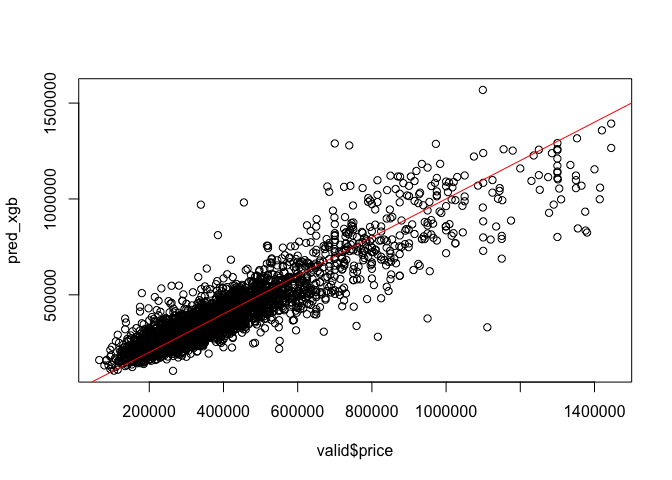
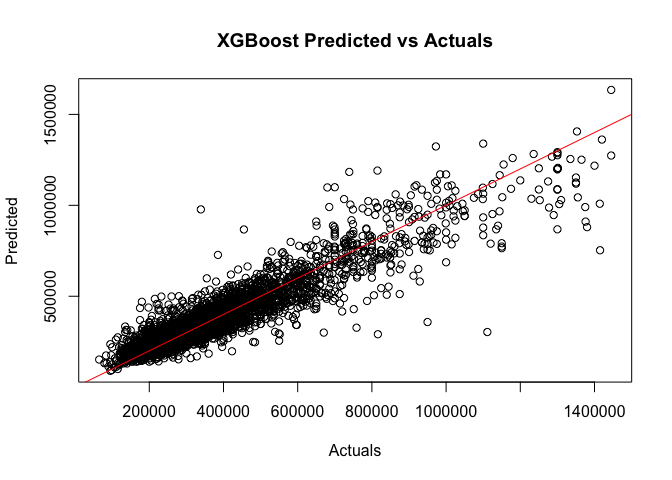
Updated transformations

diff --git a/modeling/modeling.md b/modeling/modeling.md
@@ -26,7 +26,7 @@ df$townhouse <- ifelse(df$home_type == 'TOWNHOUSE', 1, 0)
 # default neighborhood 1 (Green Hills / Forest Hills / Belle Meade)
 neighborhoods <- unique(df$neighborhood)
 num_hoods <- length(neighborhoods) # 24
-# loop enconding
+# loop encoding
 for(i in 2:num_hoods) {
   new <- ifelse(df$neighborhood == neighborhoods[i], 1, 0)
   df[ , ncol(df) + 1] <- new
@@ -41,9 +41,9 @@ df <- subset(df,select = -c(zpid
                    ,home_type
                    ,date_sold
                    ,date_listed
-                   ,days_on_market
+                   #,days_on_market
                    ,date_sold_previous
-                   ,age
+                   #,age
                    ,year_built
                    ,description
                    ,photo_count
@@ -97,18 +97,25 @@ polygon(d, col='gray')
 
 ``` r
 d_log = density(log(df$price))
-plot(d_log, main = 'price')
+plot(d_log, main = 'Log Price')
 polygon(d_log, col='gray')
 ```
 
 ![](modeling_files/figure-gfm/unnamed-chunk-7-2.png)<!-- -->
 
 ``` r
-# feature log transformations
+# feature transformations and imputations
+
+# log transformations
 df$bedrooms <- log(df$bedrooms)
 df$bathrooms <- log(df$bathrooms)
 df$living_area <- log(df$living_area)
 df$lot_size <- log(df$lot_size)
+
+# sqrt transformation
+df$days_on_market[is.na(df$days_on_market)] <- mean(df$days_on_market, na.rm = TRUE)
+df$days_on_market <- sqrt(df$days_on_market)
+df$age <- sqrt(df$age)
 ```
 
 We split our data in train/validate/test sets. The train dataset is used
@@ -149,49 +156,51 @@ summary(model_lm)
     ## 
     ## Residuals:
     ##      Min       1Q   Median       3Q      Max 
-    ## -1.18276 -0.12323  0.00418  0.13476  1.20313 
+    ## -1.13348 -0.11776  0.00243  0.12927  1.22531 
     ## 
     ## Coefficients:
-    ##                  Estimate Std. Error t value Pr(>|t|)    
-    ## (Intercept)     97.745581   6.060261  16.129  < 2e-16 ***
-    ## bedrooms        -0.009329   0.008538  -1.093  0.27457    
-    ## bathrooms        0.185869   0.006113  30.407  < 2e-16 ***
-    ## living_area      0.577855   0.007429  77.787  < 2e-16 ***
-    ## lot_size         0.031893   0.002515  12.683  < 2e-16 ***
-    ## downtown_dist   -0.044007   0.001137 -38.710  < 2e-16 ***
-    ## longitude        0.414216   0.062850   6.591 4.48e-11 ***
-    ## latitude        -1.472723   0.079236 -18.587  < 2e-16 ***
-    ## condo           -0.062745   0.006419  -9.775  < 2e-16 ***
-    ## townhouse       -0.107654   0.007321 -14.705  < 2e-16 ***
-    ## neighborhood_2  -0.407485   0.011756 -34.661  < 2e-16 ***
-    ## neighborhood_3  -0.239006   0.013121 -18.215  < 2e-16 ***
-    ## neighborhood_4   0.019676   0.015845   1.242  0.21434    
-    ## neighborhood_5  -0.088929   0.010707  -8.306  < 2e-16 ***
-    ## neighborhood_6  -0.316788   0.018726 -16.917  < 2e-16 ***
-    ## neighborhood_7  -0.289468   0.014258 -20.302  < 2e-16 ***
-    ## neighborhood_8  -0.298727   0.013871 -21.536  < 2e-16 ***
-    ## neighborhood_9  -0.347913   0.015205 -22.881  < 2e-16 ***
-    ## neighborhood_10 -0.527059   0.015296 -34.458  < 2e-16 ***
-    ## neighborhood_11 -0.141440   0.016654  -8.493  < 2e-16 ***
-    ## neighborhood_12 -0.288369   0.019056 -15.133  < 2e-16 ***
-    ## neighborhood_13 -0.461339   0.016595 -27.800  < 2e-16 ***
-    ## neighborhood_14 -0.177319   0.021053  -8.423  < 2e-16 ***
-    ## neighborhood_15 -0.576850   0.016024 -36.000  < 2e-16 ***
-    ## neighborhood_16 -0.098605   0.014782  -6.670 2.61e-11 ***
-    ## neighborhood_17  0.023912   0.012047   1.985  0.04717 *  
-    ## neighborhood_18 -0.104295   0.013082  -7.972 1.63e-15 ***
-    ## neighborhood_19  0.054666   0.013228   4.132 3.60e-05 ***
-    ## neighborhood_20 -0.393750   0.015539 -25.340  < 2e-16 ***
-    ## neighborhood_21  0.077522   0.014253   5.439 5.41e-08 ***
-    ## neighborhood_22 -0.162077   0.040318  -4.020 5.84e-05 ***
-    ## neighborhood_23 -0.156763   0.017796  -8.809  < 2e-16 ***
-    ## neighborhood_24  0.122519   0.040936   2.993  0.00277 ** 
+    ##                   Estimate Std. Error t value Pr(>|t|)    
+    ## (Intercept)      1.014e+02  5.905e+00  17.167  < 2e-16 ***
+    ## bedrooms        -4.285e-03  8.316e-03  -0.515  0.60635    
+    ## bathrooms        1.414e-01  6.255e-03  22.612  < 2e-16 ***
+    ## living_area      5.735e-01  7.292e-03  78.641  < 2e-16 ***
+    ## days_on_market  -2.039e-02  7.456e-04 -27.350  < 2e-16 ***
+    ## age             -1.583e-02  6.956e-04 -22.758  < 2e-16 ***
+    ## lot_size         5.315e-02  2.643e-03  20.108  < 2e-16 ***
+    ## downtown_dist   -4.880e-02  1.122e-03 -43.481  < 2e-16 ***
+    ## longitude        4.510e-01  6.122e-02   7.368 1.80e-13 ***
+    ## latitude        -1.480e+00  7.719e-02 -19.177  < 2e-16 ***
+    ## condo           -6.396e-02  6.252e-03 -10.230  < 2e-16 ***
+    ## townhouse       -8.728e-02  7.194e-03 -12.132  < 2e-16 ***
+    ## neighborhood_2  -4.186e-01  1.146e-02 -36.525  < 2e-16 ***
+    ## neighborhood_3  -2.705e-01  1.290e-02 -20.974  < 2e-16 ***
+    ## neighborhood_4  -1.672e-02  1.552e-02  -1.077  0.28134    
+    ## neighborhood_5  -1.141e-01  1.049e-02 -10.871  < 2e-16 ***
+    ## neighborhood_6  -3.360e-01  1.825e-02 -18.412  < 2e-16 ***
+    ## neighborhood_7  -3.006e-01  1.389e-02 -21.637  < 2e-16 ***
+    ## neighborhood_8  -3.307e-01  1.358e-02 -24.356  < 2e-16 ***
+    ## neighborhood_9  -3.750e-01  1.486e-02 -25.228  < 2e-16 ***
+    ## neighborhood_10 -5.415e-01  1.492e-02 -36.292  < 2e-16 ***
+    ## neighborhood_11 -1.271e-01  1.623e-02  -7.834 4.93e-15 ***
+    ## neighborhood_12 -2.969e-01  1.856e-02 -16.001  < 2e-16 ***
+    ## neighborhood_13 -4.908e-01  1.622e-02 -30.258  < 2e-16 ***
+    ## neighborhood_14 -1.745e-01  2.050e-02  -8.510  < 2e-16 ***
+    ## neighborhood_15 -5.811e-01  1.560e-02 -37.240  < 2e-16 ***
+    ## neighborhood_16 -1.198e-01  1.441e-02  -8.311  < 2e-16 ***
+    ## neighborhood_17  3.866e-02  1.175e-02   3.291  0.00100 ***
+    ## neighborhood_18 -1.260e-01  1.276e-02  -9.871  < 2e-16 ***
+    ## neighborhood_19  4.192e-02  1.290e-02   3.250  0.00116 ** 
+    ## neighborhood_20 -4.091e-01  1.514e-02 -27.015  < 2e-16 ***
+    ## neighborhood_21  8.198e-02  1.388e-02   5.906 3.55e-09 ***
+    ## neighborhood_22 -1.639e-01  3.926e-02  -4.174 3.00e-05 ***
+    ## neighborhood_23 -1.685e-01  1.733e-02  -9.720  < 2e-16 ***
+    ## neighborhood_24  1.091e-01  3.987e-02   2.736  0.00622 ** 
     ## ---
     ## Signif. codes:  0 '***' 0.001 '**' 0.01 '*' 0.05 '.' 0.1 ' ' 1
     ## 
-    ## Residual standard error: 0.2152 on 21729 degrees of freedom
-    ## Multiple R-squared:  0.7781, Adjusted R-squared:  0.7778 
-    ## F-statistic:  2382 on 32 and 21729 DF,  p-value: < 2.2e-16
+    ## Residual standard error: 0.2095 on 21727 degrees of freedom
+    ## Multiple R-squared:  0.7897, Adjusted R-squared:  0.7893 
+    ## F-statistic:  2399 on 34 and 21727 DF,  p-value: < 2.2e-16
 
 It is good practice to check for multicollinearity in the predictors for
 a linear model, as the presence of relationships between the predictors
@@ -216,34 +225,27 @@ vif[vif > 5] # severe
 ```
 
     ##   downtown_dist       longitude        latitude  neighborhood_2  neighborhood_6 
-    ##        7.907548       18.444286       15.022280        5.865642       11.544099 
+    ##        8.129839       18.456485       15.037132        5.878043       11.565420 
     ##  neighborhood_8 neighborhood_10 neighborhood_11 neighborhood_12 neighborhood_14 
-    ##        5.032633       12.242618        8.444304        7.040319        6.906078 
+    ##        5.086193       12.284257        8.453308        7.042106        6.906328 
     ## neighborhood_20 
-    ##        5.708727
+    ##        5.718117
 
 In our diagnostic plots, we’re assessing the assumptions we’ve made in a
 linear model. - In the Residuals vs Fitted plot, we’re seeing a stable
 goodness of fit for most of the fitted value range, with some issues at
-the tails. In particular, the spread of residuals noticeably shifts at
-the upper end. There are also clear outliers. - In our Normal QQ-plot,
-we’re seeing a deviation that indicates non-normality in our response
-variable. We addressed this problem with a log transformation of price,
-but the tails are still fat. - The Scale-Location plot mainly serves to
-confirm the concerns about heteroskedasticity at higher prices. - The
-Residuals vs Leverage plot reveals a relationship between our errors and
-the leverage, or degree of influence of our points. Interestingly there
-are clusters of leverage with decreasing spread of residuals. Here it
-appears that our higher-leverage observations are not causing problems
-with our fit.
+the tails. Also, the spread of residuals shifts at the upper end,
+representing some homoskedasticity. - In the Normal QQ-plot, we’re
+seeing decent normality in the residuals but evidence of some non-linear
+characteristics not captured by our model. - The Cook’s distance plot
+checks for observations that have high influence on the model fit. Here
+there are three observations worthy of investigation.
 
 ``` r
 # linear regression diagnostic plots
-par(mfrow=c(2,2))
-plot(model_lm)
+dev.new(width=100, height=50, unit="px")
+plot(model_lm, which = c(1,2,4))
 ```
-
-![](modeling_files/figure-gfm/unnamed-chunk-12-1.png)<!-- -->
 
 ``` r
 # linear regression prediction and root mean squared error
@@ -252,7 +254,7 @@ rmse_lm <- sqrt(sum((exp(pred_lm) - valid$price)^2)/length(valid$price))
 rmse_lm
 ```
 
-    ## [1] 96678.3
+    ## [1] 95309.27
 
 In this plot of actual vs predicted, the model performs better for lower
 cost housing.
@@ -320,16 +322,16 @@ rmse_xgb <- sqrt(sum((pred_xgb - valid$price)^2)/length(valid$price))
 rmse_xgb
 ```
 
-    ## [1] 85450.26
+    ## [1] 80350.32
 
-XGBoost results in a 12% reduction in RMSE.
+XGBoost results in a 16% reduction in RMSE.
 
-Although not as severe, it is still underestimating more expensive
-homes.
+Although not as pronounced as the linear fit, the XGBoost model is still
+underestimating more expensive homes.
 
 ``` r
 # plot
-plot(valid$price, pred_xgb)
+plot(valid$price, pred_xgb, main = 'XGBoost Predicted vs Actuals', xlab = 'Actuals', ylab = 'Predicted')
 abline(coef = c(0, 1), c = 'red')
 ```
 
@@ -339,7 +341,31 @@ abline(coef = c(0, 1), c = 'red')
 1 - rmse_xgb/rmse_lm # performance comparison
 ```
 
-    ## [1] 0.1161382
+    ## [1] 0.1569517
+
+``` r
+# prep analysis dataframe
+xgb_analysis <- data.frame(1:length(valid$price),valid$price, pred_xgb)
+xgb_analysis$ae <- abs(xgb_analysis$valid.price - xgb_analysis$pred_xgb) # absolute error
+xgb_analysis$ae_p <- xgb_analysis$ae/xgb_analysis$valid.price
+```
+
+The mean absolute error for predicted price is \$53k or 15% of true home
+price. The median figures are \$35k and 11%.
+
+``` r
+summary(xgb_analysis$ae)
+```
+
+    ##     Min.  1st Qu.   Median     Mean  3rd Qu.     Max. 
+    ##      6.4  16170.1  35361.2  53210.7  69894.5 807892.2
+
+``` r
+summary(xgb_analysis$ae_p)
+```
+
+    ##      Min.   1st Qu.    Median      Mean   3rd Qu.      Max. 
+    ## 0.0000157 0.0475862 0.1060771 0.1456514 0.1906463 1.8836322
 
 ## SAINT (Work in Progress)
 
